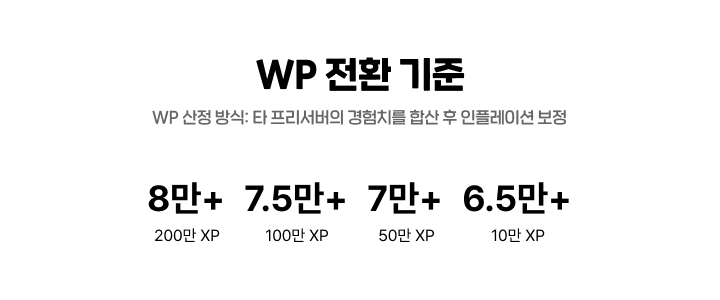
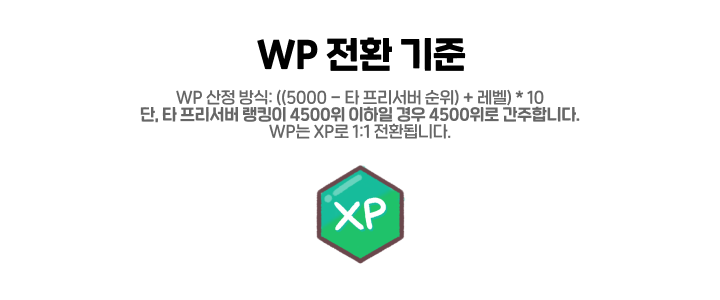
카카오 이모티콘 추가

diff --git a/Server/lib/Web/routes/major.js b/Server/lib/Web/routes/major.js
@@ -97,6 +97,9 @@ Server.get("/audioProxy", async function(req, res){
 });
 
 Server.get("/ranking", function(req, res){
+	if (!req.headers.referer || !req.headers.referer.includes('kkutu.cc')) {
+		return res.status(403).send('Forbidden');
+	}
 	var pg = Number(req.query.p);
 	var id = req.query.id;
 	
@@ -138,6 +141,108 @@ Server.get("/injeong/:word", function(req, res){
 Server.get("/cf/:word", function(req, res){
 	res.send(getCFRewards(req.params.word, Number(req.query.l || 0), req.query.b == "1"));
 });
+
+Server.get("/welcomes2/nquery", function(req, res){
+    if(!req.session.profile) return res.send({ result: "loggedout" });
+    var uid = req.session.profile.id;
+
+    MainDB.users.findOne([ '_id', req.session.profile.id ]).on(function($user){
+        var nickname = "";
+        if($user){
+            nickname = $user.nickname;
+        }
+
+        MainDB.welcome_kkutu_s2.findOne([ 'nickname', nickname ]).on(function($word){
+            if($word){
+                const rank = Number($word.rank);
+                const level = Number($word.level);
+                const score = Number($word.score);
+
+                // WP calculation
+                var wpRank = 5000 - rank;
+                if (500 >= wpRank){wpRank = 500;}
+                var wpCalc = Math.round(((wpRank) + (level)) * (10));
+
+                if($word.claimed !== "true"){
+                    return res.send({ result: "available", score: $word.score, rank: $word.rank, nickname: $word.rank, level: $word.level, wp: wpCalc });
+                }
+                else{
+                    return res.send({ result: "unavailable", score: $word.score, rank: $word.rank, nickname: $word.rank, level: $word.level, wp: wpCalc });
+                }
+            }
+            else{
+                return res.send({ result: "notfound" });
+            }
+        });
+    });
+});
+Server.get("/welcomes2/claim", function(req, res){
+    if(!req.session.profile) return res.send({ result: "loggedout" });
+    var uid = req.session.profile.id;
+
+    MainDB.users.findOne([ '_id', req.session.profile.id ]).on(function($user){
+        var nickname = "";
+        if($user){
+            nickname = $user.nickname;
+
+            MainDB.welcome_kkutu_s2.findOne([ 'nickname', nickname ]).on(function($word){
+                if($word){
+                    if($word.claimed !== "true"){
+                        MainDB.users.findOne([ '_id', uid ]).on(function($user){
+                            if($user){
+                                const rank = Number($word.rank);
+                                const level = Number($word.level);
+                                const score = Number($word.score);
+
+                                // WP calculation
+                                var wpRank = 5000 - rank;
+                                if (500 >= wpRank){
+                                    wpRank = 500;
+                                }
+
+                                var wpCalc = Math.round((wpRank + level) * 10);
+								var resultwp = $user.kkutu.score + wpCalc;
+								
+                                MainDB.users.findOne([ '_id', uid ]).on(function($user){
+									if($user){
+										var kkutu = $user.kkutu;
+										kkutu.score = resultwp;
+								
+										MainDB.users.update([ '_id', uid ]).set({ 'kkutu': kkutu }).on(function($res){
+											if($res){
+												MainDB.welcome_kkutu_s2.update([ '_id', $word._id ]).set({ 'claimed': "true" }).on(function($res){
+													return res.send({ result: "claimed", wp: wpCalc, score: $word.score, nickname: $word.rank, level: $word.level });
+												});
+											} else {
+												return res.send({ result: "claimerror" });
+											}
+										});
+									} else {
+										return res.send({ result: "claimerror" });
+									}
+								});
+								
+                            }
+                            else{
+                                return res.send({ result: "claimerror" });
+                            }
+                        });
+                    }
+                    else{
+                        return res.send({ result: "unavailable" });
+                    }
+                }
+                else{
+                    return res.send({ result: "notfound" });
+                }
+            });
+        }
+        else{
+            return res.send({ result: "claimerror" });
+        }
+    });
+});
+
 Server.get("/shop", function(req, res){
 	MainDB.kkutu_shop.find().limit([ 'cost', true ], [ 'term', true ], [ 'group', true ], [ 'options', true ], [ 'updatedAt', true ]).on(function($goods){
 		res.json({ goods: $goods });
@@ -172,7 +277,7 @@ Server.post("/profile", function(req, res){
 				var regex = /^[a-zA-Z0-9ㄱ-ㅎㅏ-ㅣ가-힣ぁ-んァ-ヶ一-龯々〆〤〥〩ぁ-ゞァ-ヾ\s!#$%&()*+,-./:;=?@[\\\]^_`{|}~]*$/;
 				var BAD = new RegExp([
 					"느으*[^가-힣]*금마?", "니[^가-힣]*(엄|앰|엠)", "(ㅄ|ㅅㅂ|ㅂㅅ)", "미친[^가-힣](년|놈|개)?", "(병|븅|빙|등)[^가-힣]*(신|딱)", "보[^가-힣]*지", "(새|섀|쌔|썌)[^가-힣]*(기|끼)", "섹[^가-힣]*스", "(시|씨|쉬|쒸)이*입?[^가-힣]*(발|빨|벌|뻘|팔|펄)", "십[^가-힣]*새", "(애|에)[^가-힣]*미", "자[^가-힣]*지", "(졸|존)[^가-힣]*(나|라|만)","좃|좆|죶", "지랄", "창[^가-힣]*(녀|년|놈)", "개[^가-힣]*(년|녀|쓰레기|스레기|돼지|되지|초딩)", "나가[^가-힝]*(뒤져|디져|죽어)","(닥|닭)[^가-힣]*(쳐|처)", "(또|똘)[^가-힣]*(아이|라이)","빡(통대가리|대가리)", "썩을", "(fuck|뻑큐|뻐큐)", "(부|불)[^가-힣]*(알|랄)","씹", "십[^가-힣]*(년|놈)" , "아가리[^가-힣]*?","(엠|엄)[^가-힣]*창","(짱|장)[^가-힣]*(깨|꼴라|궤)","(찐|왕)[^가-힣]*(따|다)", "틀딱", "페[^가-힣]*미", "한남",  "(염|옘)[^가-힣]*병", "sex",
-					"엄[^가-힣]*마", "아[^가-힣]*빠", "어[^가-힣]*머[^가-힣]*니", "아[^가-힣]*버[^가-힣]*지", "어[^가-힣]*머[^가-힣]*님", "한선", "규빈", "시현", "승[^가-힣]*만", "정[^가-힣]*희", "두[^가-힣]*환", "무[^가-힣]*현", "명[^가-힣]*박", "근[^가-힣]*혜", "재[^가-힣]*인", "석[^가-힣]*열", "진[^가-힣]*핑", "국민의힘", "국힘", "민주당", "개혁신당", "GM", "관리자", "운영자", "서버장"
+					"엄[^가-힣]*마", "아[^가-힣]*빠", "어[^가-힣]*머[^가-힣]*니", "아[^가-힣]*버[^가-힣]*지", "어[^가-힣]*머[^가-힣]*님", "한선", "규빈", "시현", "도훈", "대운", "쪼리핑", "염한선", "밥먹나", "승[^가-힣]*만", "정희", "두[^가-힣]*환", "태우", "영삼", "무[^가-힣]*현", "명박", "근혜", "재인", "석열", "진핑", "국민의힘", "국힘", "민주당", "개혁신당", "조국혁신", "GM", "관리자", "운영자", "서버장", "천안문", "난징", "센징", "끄투코리아", "끄투리오"
 				  ].join('|'), "g");
 
 				if (!regex.test(nickname)) return res.send({ error: 458 });

diff --git a/Server/lib/Web/public/index.html b/Server/lib/Web/public/index.html
@@ -14,12 +14,12 @@
 			<meta name="keywords" content="끄투, kkutu, 플러스끄투, 두근두근, 끝말잇기, 앞말잇기, 십자말풀이, 웹, 쿵쿵따, 영어끝말잇기, 영어쿵쿵따, 끝말잇기사이트, 자음퀴즈, 초성퀴즈, 그림퀴즈, 십자말풀이, 가로세로, 타자, 타자연습, 앞말잇기" class="s-y_bCXRrkrYfP"><meta name="description" content="플러스끄투에서 끝말잇기, 쿵쿵따와 같은 온라인 단어 게임을 즐겨보세요." class="s-y_bCXRrkrYfP"><meta name="publisher" content="Plus" class="s-y_bCXRrkrYfP"><meta property="og:title" content="플러스끄투" class="s-y_bCXRrkrYfP"><meta property="og:description" content="플러스끄투에서 끝말잇기, 쿵쿵따와 같은 온라인 단어 게임을 즐겨보세요." class="s-y_bCXRrkrYfP"><meta property="og:url" content="https://kkutu.cc" class="s-y_bCXRrkrYfP"><meta property="og:site_name" content="플러스끄투" class="s-y_bCXRrkrYfP"><meta property="og:type" content="website" class="s-y_bCXRrkrYfP"><meta property="og:image" content="https://kkutu.cc/img/kkutu/og.png" class="s-y_bCXRrkrYfP"><meta property="og:image:width" content="1200" class="s-y_bCXRrkrYfP"><meta property="og:image:height" content="630" class="s-y_bCXRrkrYfP"><meta property="og:locale" content="ko-KR" class="s-y_bCXRrkrYfP"><meta name="twitter:card" content="summary_large_image" class="s-y_bCXRrkrYfP"><meta name="twitter:site" content="kkutu.cc" class="s-y_bCXRrkrYfP"><meta name="twitter:title" content="플러스끄투" class="s-y_bCXRrkrYfP"><meta name="twitter:description" content="플러스끄투에서 끝말잇기, 쿵쿵따와 같은 온라인 단어 게임을 즐겨보세요." class="s-y_bCXRrkrYfP"><meta name="twitter:image" content="https://kkutu.cc/img/kkutu/og.png" class="s-y_bCXRrkrYfP">
 		
 		<link href="./_app/immutable/assets/0.JW-QwNiO.css" rel="stylesheet">
-		<link rel="modulepreload" href="./_app/immutable/entry/start.puOk3H2s.js">
-		<link rel="modulepreload" href="./_app/immutable/chunks/entry.05Rq2bvm.js">
+		<link rel="modulepreload" href="./_app/immutable/entry/start.eDnjGJnQ.js">
+		<link rel="modulepreload" href="./_app/immutable/chunks/entry.A2tFxt4u.js">
 		<link rel="modulepreload" href="./_app/immutable/chunks/scheduler.S4wXxuDW.js">
-		<link rel="modulepreload" href="./_app/immutable/entry/app.RpkBKwM2.js">
+		<link rel="modulepreload" href="./_app/immutable/entry/app.rHD50NAu.js">
 		<link rel="modulepreload" href="./_app/immutable/chunks/index.2QJJeQOn.js">
-		<link rel="modulepreload" href="./_app/immutable/nodes/0.51QlMS0E.js">
+		<link rel="modulepreload" href="./_app/immutable/nodes/0.fp34gM8D.js">
 		<link rel="modulepreload" href="./_app/immutable/nodes/2.iehQuNoA.js"><title>플러스끄투 - 혼자도 같이도 즐거운 온라인 단어 게임</title><!-- HEAD_svelte-j0c1yx_START --><!-- HEAD_svelte-j0c1yx_END -->
 	</head>
 	<body data-sveltekit-preload-data="hover">
@@ -34,7 +34,7 @@
 			
 			<script>
 				{
-					__sveltekit_kf9ugo = {
+					__sveltekit_f33ysx = {
 						base: new URL(".", location).pathname.slice(0, -1)
 					};
 
@@ -43,8 +43,8 @@
 					const data = [null,null];
 
 					Promise.all([
-						import("./_app/immutable/entry/start.puOk3H2s.js"),
-						import("./_app/immutable/entry/app.RpkBKwM2.js")
+						import("./_app/immutable/entry/start.eDnjGJnQ.js"),
+						import("./_app/immutable/entry/app.rHD50NAu.js")
 					]).then(([kit, app]) => {
 						kit.start(app, element, {
 							node_ids: [0, 2],

diff --git a/Server/lib/Web/lib/in_game_kkutu.js b/Server/lib/Web/lib/in_game_kkutu.js
@@ -839,6 +839,16 @@ $(document).ready(function(){
 	$stage.menu.event.on('click', function(e){
 		showDialog($stage.dialog.event);
 	});
+	
+	$('#event1').click(function(){
+		$('#event1-content').show();
+		$('#event2-content').hide();
+	});
+	$('#event2').click(function(){
+		$('#event2-content').show();
+		$('#event1-content').hide();
+	});
+
 	$stage.menu.dictIngame.on('click', function(e){
 		showDialog($stage.dialog.dict);
 	});
@@ -3764,21 +3774,54 @@ function updateMe(){
 		$("#usernameCredit").text(my.profile.title || my.profile.name);
 	}
 	//200레벨이벤트
-	var startDate = new Date('2024-03-04');
-    var endDate = new Date('2024-03-19');
+	var startDate = new Date('2024-04-19');
+    var endDate = new Date('2025-01-01');
     var today = new Date();
 
     if (today >= startDate && today <= endDate) {
 	$("#event-content").show();
 	$("#pre-content").hide();
     }
-	$("#userLevel").html(L[rank] + " (" + my.data.rankPoint + "RP)");
-	if(my.data.rankPoint >= 1500){
+
+	$.get("/welcomes2/nquery", function(res){
+		if(res.result == "loggedout"){
+			$("#userLevel").html("로그인 후 확인하세요");
+			$("#lockedItem").attr("src","img/event/어서와요S2_데이터x.png");
+		} else if (res.result == "notfound"){
+			$("#userLogic").html("");
+			$("#userLevel").html("0WP");
+			$("#lockedItem").attr("src","img/event/어서와요S2_데이터x.png");
+		} else {
+			$("#userLogic").html("((5000 - 순위: " + res.rank + ") + 레벨: "+ res.level +") * 10 =");
+			$("#userLevel").html(res.wp + "WP");
+			if (res.result == "available"){
+				$("#lockedItem").attr("src","img/event/어서와요S2_통합.png");
+				$("#lockedItem").click(function(){
+					$.get("/welcomes2/claim", function(res){
+						if(res.result == "claimed"){
+							playSound("lvup");
+							alert("🥳축하합니다! "+res.wp+"XP 적용 완료~! 새로고침해서 지금 확인해보세요.");
+							$("#lockedItem").attr("src","img/event/어서와요S2_리딤.png");
+							$("#lockedItem").off("click");
+						}
+						else{
+							alert("적용 중 오류가 발생하였습니다.");
+						}
+					});
+			  	});
+			}
+			else{
+				$("#lockedItem").attr("src","img/event/어서와요S2_리딤.png");
+			}
+		}
+	});
+
+	/*if(my.data.rankPoint >= 1500){
 		$("#lockedItem").click(function(){
 			window.open('https://docs.google.com/forms/d/e/1FAIpQLSc5uzMe6xxXrBSD_NprdUUP_F_0o5YJU8WNYwsG4D44LZaPcA/viewform?usp=sf_link', '_blank');
 	  });
 		$("#lockedItem").attr("src","img/event/acryll-get.png");
-	}
+	}*/
 
 	$(".my-rank-icon").attr("src","img/kkutu/ranking/"+rank+".png");
 	$(".my-rank").html(L[rank] + " " + my.data.rankPoint);

diff --git a/Server/lib/Web/lib/kkutu/body.js b/Server/lib/Web/lib/kkutu/body.js
@@ -1019,21 +1019,54 @@ function updateMe(){
 		$("#usernameCredit").text(my.profile.title || my.profile.name);
 	}
 	//200레벨이벤트
-	var startDate = new Date('2024-03-04');
-    var endDate = new Date('2024-03-19');
+	var startDate = new Date('2024-04-19');
+    var endDate = new Date('2025-01-01');
     var today = new Date();
 
     if (today >= startDate && today <= endDate) {
 	$("#event-content").show();
 	$("#pre-content").hide();
     }
-	$("#userLevel").html(L[rank] + " (" + my.data.rankPoint + "RP)");
-	if(my.data.rankPoint >= 1500){
+
+	$.get("/welcomes2/nquery", function(res){
+		if(res.result == "loggedout"){
+			$("#userLevel").html("로그인 후 확인하세요");
+			$("#lockedItem").attr("src","img/event/어서와요S2_데이터x.png");
+		} else if (res.result == "notfound"){
+			$("#userLogic").html("");
+			$("#userLevel").html("0WP");
+			$("#lockedItem").attr("src","img/event/어서와요S2_데이터x.png");
+		} else {
+			$("#userLogic").html("((5000 - 순위: " + res.rank + ") + 레벨: "+ res.level +") * 10 =");
+			$("#userLevel").html(res.wp + "WP");
+			if (res.result == "available"){
+				$("#lockedItem").attr("src","img/event/어서와요S2_통합.png");
+				$("#lockedItem").click(function(){
+					$.get("/welcomes2/claim", function(res){
+						if(res.result == "claimed"){
+							playSound("lvup");
+							alert("🥳축하합니다! "+res.wp+"XP 적용 완료~! 새로고침해서 지금 확인해보세요.");
+							$("#lockedItem").attr("src","img/event/어서와요S2_리딤.png");
+							$("#lockedItem").off("click");
+						}
+						else{
+							alert("적용 중 오류가 발생하였습니다.");
+						}
+					});
+			  	});
+			}
+			else{
+				$("#lockedItem").attr("src","img/event/어서와요S2_리딤.png");
+			}
+		}
+	});
+
+	/*if(my.data.rankPoint >= 1500){
 		$("#lockedItem").click(function(){
 			window.open('https://docs.google.com/forms/d/e/1FAIpQLSc5uzMe6xxXrBSD_NprdUUP_F_0o5YJU8WNYwsG4D44LZaPcA/viewform?usp=sf_link', '_blank');
 	  });
 		$("#lockedItem").attr("src","img/event/acryll-get.png");
-	}
+	}*/
 
 	$(".my-rank-icon").attr("src","img/kkutu/ranking/"+rank+".png");
 	$(".my-rank").html(L[rank] + " " + my.data.rankPoint);

diff --git a/Server/lib/const.js b/Server/lib/const.js
@@ -240,7 +240,7 @@ exports.MISSION_ko = [ "가", "나", "다", "라", "마", "바", "사", "아", "
 exports.MISSION_en = [ "a", "b", "c", "d", "e", "f", "g", "h", "i", "j", "k", "l", "m", "n", "o", "p", "q", "r", "s", "t", "u", "v", "w", "x", "y", "z" ];
 
 exports.KO_INJEONG = [
-	"JOT", "BUS", "NCA", "OCP", /*"TRC",*/
+	"JOT", "BUS", "NCA", "OCP", /*"TRC",*/ "KEM",
 	"IMS", "VOC", "KRR", "KTV",
 	"NSK", "KOT", "KOR", "DOT", "DRR", "DGM", "RAG", "LVL",
 	"LOL", "MRN", "MMM", "MAP", "MKK", "MNG",
@@ -267,7 +267,6 @@ exports.EN_THEME = [
 	"e18", "e20", "e43"
 ];
 exports.IJP_EXCEPT = [
-	"OIJ"
 ];
 exports.KO_IJP = exports.KO_INJEONG.concat(exports.KO_THEME).filter(function(item){ return !exports.IJP_EXCEPT.includes(item); });
 exports.EN_IJP = exports.EN_INJEONG.concat(exports.EN_THEME).filter(function(item){ return !exports.IJP_EXCEPT.includes(item); });

diff --git a/Server/lib/Game/games/classic.js b/Server/lib/Game/games/classic.js
@@ -25,7 +25,7 @@ var freeAble = false;
 const ROBOT_START_DELAY = [ 1200, 800, 400, 200, 0 ];
 const ROBOT_TYPE_COEF = [ 1250, 750, 500, 250, 0 ];
 const ROBOT_THINK_COEF = [ 4, 2, 1, 0, 0 ];
-const ROBOT_HIT_LIMIT = [ 8, 4, 2, 1, 0 ];
+const ROBOT_HIT_LIMIT = [ 4, 2, 0, 0, 0 ];
 const ROBOT_LENGTH_LIMIT = [ 3, 4, 9, 99, 100 ];
 const RIEUL_TO_NIEUN = [4449, 4450, 4457, 4460, 4462, 4467];
 const RIEUL_TO_IEUNG = [4451, 4455, 4456, 4461, 4466, 4469];

diff --git a/Server/lib/Web/lib/kkutu/ready.js b/Server/lib/Web/lib/kkutu/ready.js
@@ -783,6 +783,16 @@ $(document).ready(function(){
 	$stage.menu.event.on('click', function(e){
 		showDialog($stage.dialog.event);
 	});
+	
+	$('#event1').click(function(){
+		$('#event1-content').show();
+		$('#event2-content').hide();
+	});
+	$('#event2').click(function(){
+		$('#event2-content').show();
+		$('#event1-content').hide();
+	});
+
 	$stage.menu.dictIngame.on('click', function(e){
 		showDialog($stage.dialog.dict);
 	});

diff --git a/Server/lib/Web/db.js b/Server/lib/Web/db.js
@@ -81,7 +81,8 @@ Pub.ready = function(isPub){
 			DB.kkutu_injeong = new mainAgent.Table("kkutu_injeong");
 			DB.kkutu_shop = new mainAgent.Table("kkutu_shop");
 			DB.kkutu_shop_desc = new mainAgent.Table("kkutu_shop_desc");
-			
+			DB.welcome_kkutu_s2 = new mainAgent.Table("pink_users");
+
 			DB.session = new mainAgent.Table("session");
 			DB.users = new mainAgent.Table("users");
 			/* Enhanced User Block System [S] */
